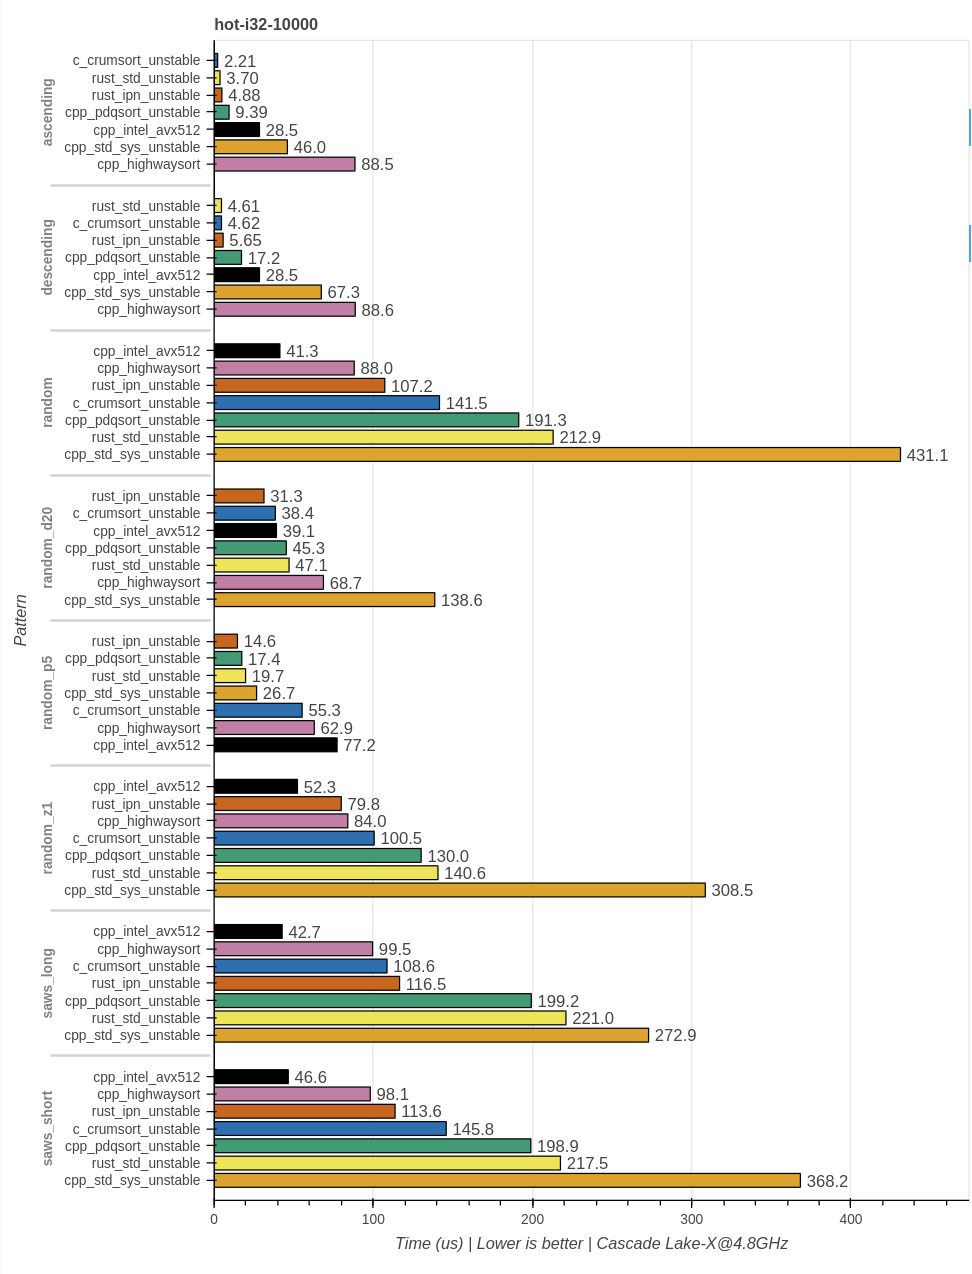
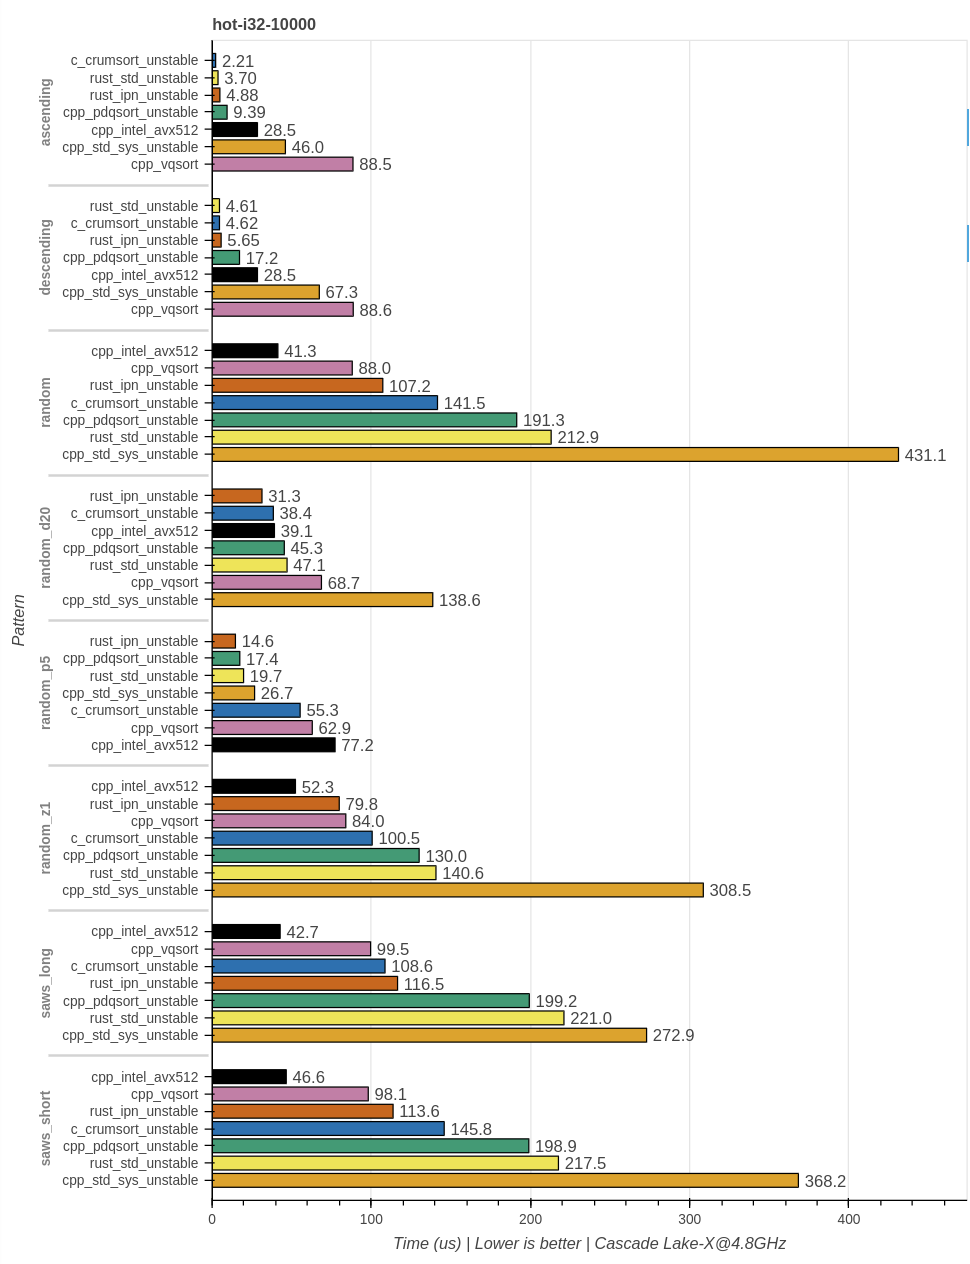
Update intel_avx512 analysis
Update graphs highwaysort -> vqsort

Changed region(s): [[0.0309, 0.0, 0.9897, 0.9873], [0.0, 0.4628, 0.0309, 0.5245]]

diff --git a/writeup/intel_avx512/text.md b/writeup/intel_avx512/text.md
@@ -91,19 +91,20 @@ Is not an honest representation. And it's generally very difficult to compress s
 - ascending and descending show the largest variance with the fastest sort being ~33x and ~23x faster respectively than the slowest.
 - More natural random distributions like random_z1 close the gap between manually vectorized code and pdqsort derived designs, rust_std_unstable, rust_ipn_unstable and c_crumsort_unstable.
 
-Whether these patterns are representative will depend on your workload. These are fundamentally synthetic benchmarks exploring sort performance in isolation. Especially small sizes are likely not representative of real world performance, where CPU branch, instruction and data caches may be cold. These numbers should be interpreted as best case performance under laboratory conditions.
+Whether these patterns are representative will depend on your workload. These are fundamentally synthetic benchmarks exploring sort performance in isolation. Especially small sizes are likely not representative of real world performance, where CPU branch, instruction and data caches may be cold. **These numbers should be interpreted as best case performance under laboratory conditions.**
 
 #### hot-u64-scaling
 
 Measuring random pattern performance across different sizes:
 <img src="assets/hot-u64-scaling-random.png" width=600 />
+
 Zoomed in:
 <img src="assets/hot-u64-scaling-random_zoomed.png" width=600 />
 
 Observations:
 
 - cpp_vqsort is exceedingly slow for small inputs.
-- cpp_intel_avx512 is fast across all sizes.
+- cpp_intel_avx512 is fast across all sizes, when benchmarked in a hot loop.
 - cpp_intel_avx512, rust_ipn_unstable and c_crumsort_unstable, differentiate themselves from implementations using insertion sort for small inputs, rust_std_unstable, cpp_pdqsort_unstable and cpp_std_msvc_unstable.
 - cpp_std_msvc_unstable shows sub-log scaling.
 - Starting at ~50k cpp_vqsort is the fastest.
@@ -147,7 +148,7 @@ cpp_intel_avx512 is a very fast sort implementation, especially for random input
 
 #### Specialized sort in a library
 
-cpp_intel_avx512 can be a great choice, if the input is assumed mostly random, and not of low-cardinality. When inputs of varying sizes have to be sorted and the appropriate hardware supporting AVX-512 is available. However one should be carful, in adopting new code [[4](https://github.com/numpy/numpy/pull/22315/#issuecomment-1434389399)].
+cpp_intel_avx512 can be a great choice, if the input is assumed mostly random, and not of low-cardinality. When inputs of varying sizes have to be sorted and the appropriate hardware supporting AVX-512 is available.
 
 #### Specialized HPC code
 
@@ -155,4 +156,4 @@ If you need the best possible throughput, and know you only have large inputs wi
 
 #### Language standard library
 
-A standard library implementation should be good in most scenarios, with bad performance in as few scenarios as possible. There are many glaring issues with cpp_intel_avx512 for such a use case. It would only support a small fraction of devices, would increase binary size for all x86 targets. It is not good at exploiting existing patterns in the input. There are worries about it's functional correctness [[5](https://github.com/numpy/numpy/pull/22315/#issuecomment-1434766714)]. It can't support custom comparisons, which would potentially mean that `v.sort()` and `v.sort_by(|a, b| a.cmp(b))` could have a surprising difference in performance. It can't support user defined types without additional code by the user, eg. `#[derive(Copy, Clone)]struct X(i32)` could have a surprising difference in performance to just `i32`.
+A standard library implementation should be good in most scenarios, with bad performance in as few scenarios as possible. There are many glaring issues with cpp_intel_avx512 for such a use case. It would only support a small fraction of devices, would increase binary size for all x86 targets. It is not good at exploiting existing patterns in the input. It can't support custom comparisons, which would potentially mean that `v.sort()` and `v.sort_by(|a, b| a.cmp(b))` could have a surprising difference in performance. It can't support user defined types without additional code by the user, eg. `#[derive(Copy, Clone)]struct X(i32)` could have a surprising difference in performance to just `i32`.
